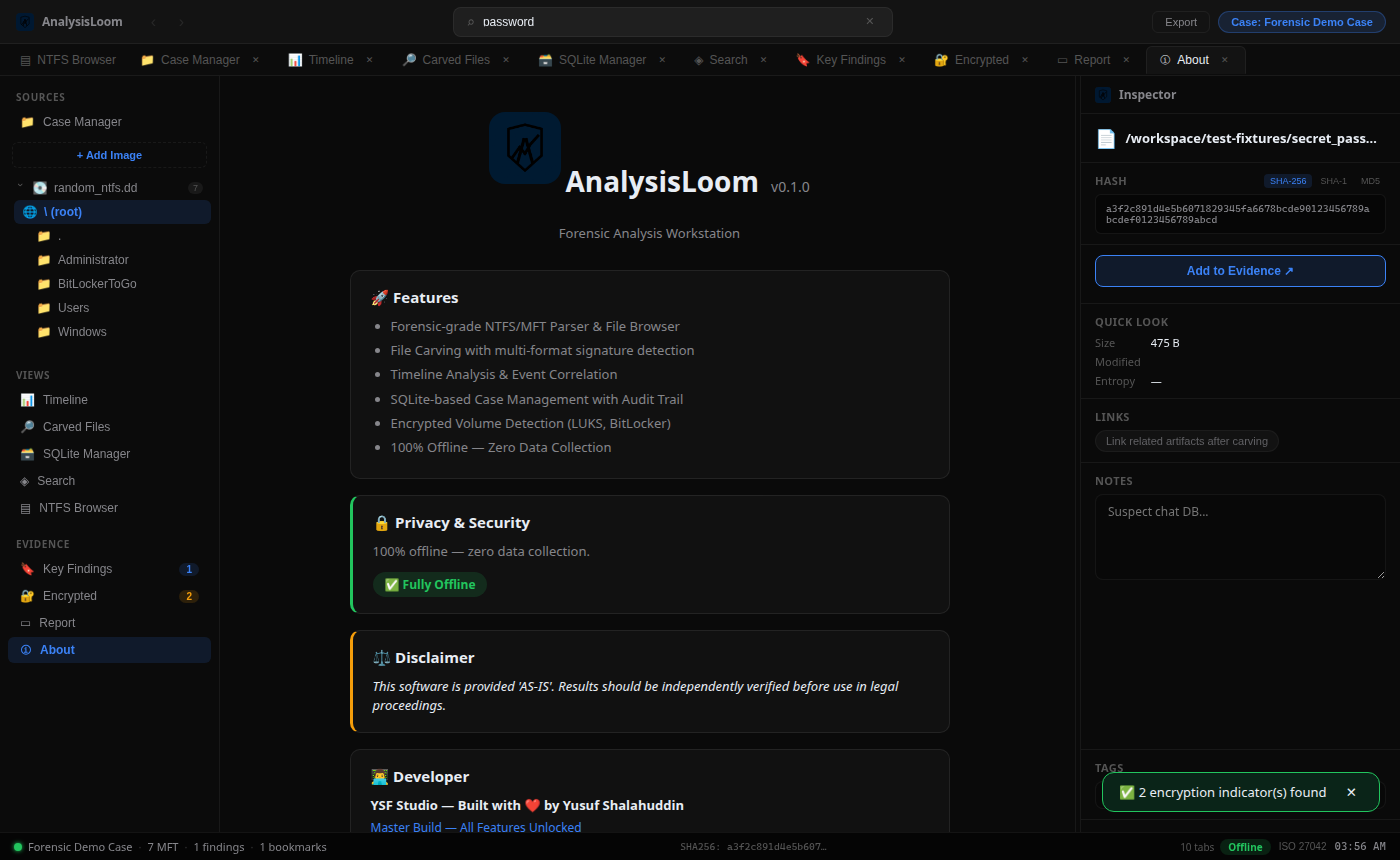
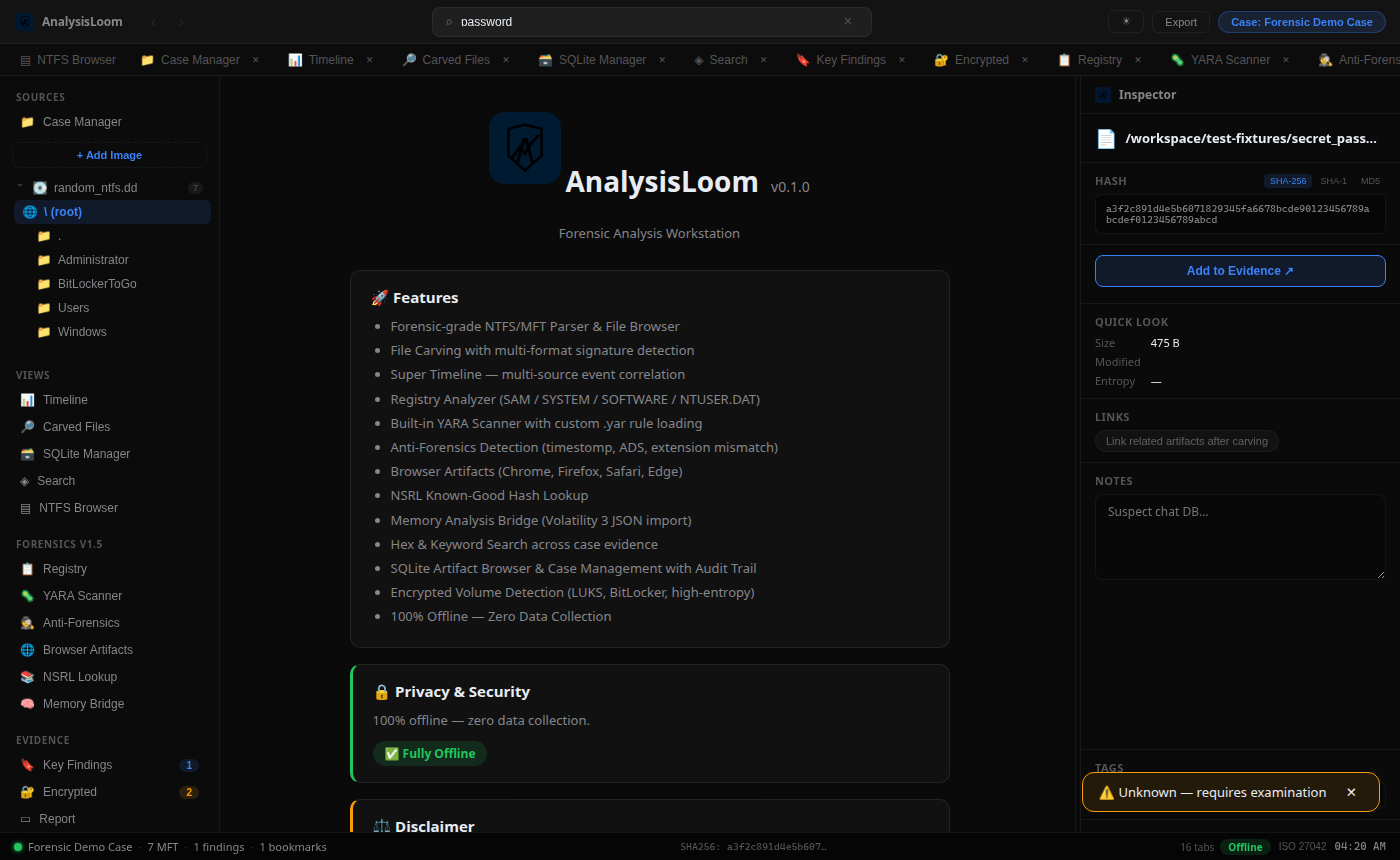
polish: update about_info features list and regenerate README screenshots
- Expand about_info() and DEMO_ABOUT with V1.5 features (Registry, YARA,
  Anti-Forensics, Browser, NSRL, Memory, Super Timeline, Hex Search)
- Add mock handlers and demo data for new forensic tabs in screenshot build
- Capture 6 new screenshots (registry, yara-scanner, anti-forensics,
  browser-artifacts, nsrl-lookup, memory-bridge) and refresh existing ones
- Document new tabs in README Screenshots section

diff --git a/packages/analysisloom/src/lib/demo/mockData.js b/packages/analysisloom/src/lib/demo/mockData.js
@@ -81,17 +81,84 @@ export const DEMO_AUDIT = [
   { timestamp: "2026-06-06 10:32:00", action: "KEYWORD_SEARCH", detail: "password" },
 ];
 
+export const DEMO_REGISTRY = {
+  hiveType: "SYSTEM",
+  keysScanned: 5,
+  findings: [
+    { hive: "SYSTEM", keyPath: "ControlSet001\\Enum\\USBSTOR", valueName: "(subkey)", valueData: "Disk&Ven_SanDisk", category: "usb", forensicRelevance: "USB History" },
+    { hive: "SYSTEM", keyPath: "ControlSet001\\Enum\\USBSTOR\\4&2a1b3c4d", valueName: "FriendlyName", valueData: "SanDisk Ultra USB 3.0", category: "usb", forensicRelevance: "USB History" },
+    { hive: "SOFTWARE", keyPath: "Microsoft\\Windows\\CurrentVersion\\Explorer\\UserAssist", valueName: "(subkey)", valueData: "{CEBFF5C0}", category: "userassist", forensicRelevance: "UserAssist / Program Execution" },
+    { hive: "NTUSER", keyPath: "Software\\Microsoft\\Windows\\CurrentVersion\\Explorer\\RecentDocs", valueName: "(subkey)", valueData: ".txt", category: "mru", forensicRelevance: "Recent Documents (MRU)" },
+  ],
+};
+
+export const DEMO_YARA = [
+  { ruleName: "Suspicious_PowerShell", filePath: "/workspace/test-fixtures/secret_password_log.txt", offset: 128, matchedString: "powershell", severity: "high" },
+  { ruleName: "Ransomware_Note", filePath: "/workspace/test-fixtures/secret_password_log.txt", offset: 0, matchedString: "ransom", severity: "critical" },
+];
+
+export const DEMO_ANTIFORENSICS = [
+  { detectionType: "Timestomp Suspect", filePath: "/workspace/test-fixtures/random_ntfs.dd::secret_password.txt", severity: "high", details: "$SI created differs from $FN — possible timestomp", recordNumber: 4 },
+  { detectionType: "NTFS Alternate Data Stream", filePath: "/workspace/test-fixtures/random_ntfs.dd::zone.identifier:Zone.Identifier", severity: "high", details: "Named data stream 'Zone.Identifier'", recordNumber: 4 },
+];
+
+export const DEMO_BROWSER = [
+  {
+    browser: "Chrome",
+    dbPath: "/workspace/test-fixtures/messages.db",
+    artifacts: [
+      { browser: "Chrome", artifactType: "history", url: "https://mail.google.com", title: "Gmail", visitCount: 42, lastVisit: "2026-06-06 09:15:00 UTC", sourcePath: "" },
+      { browser: "Chrome", artifactType: "download", url: "https://cdn.example.com/tool.exe", title: "/Users/Downloads/tool.exe", visitCount: 1, lastVisit: "2026-06-05 14:22:00 UTC", sourcePath: "" },
+    ],
+  },
+];
+
+export const DEMO_NSRL = {
+  sha256: DEMO_HASHES.sha256,
+  knownGood: false,
+  fileName: null,
+  product: null,
+};
+
+export const DEMO_MEMORY = {
+  plugin: "windows.pslist.PsList",
+  processes: [
+    { pid: 4, name: "System", ppid: 0, cmdline: "", createTime: "2026-06-01 08:00:00" },
+    { pid: 512, name: "explorer.exe", ppid: 480, cmdline: "C:\\Windows\\explorer.exe", createTime: "2026-06-01 08:01:12" },
+    { pid: 2048, name: "powershell.exe", ppid: 512, cmdline: "powershell -enc SQBFAFgA", createTime: "2026-06-01 09:44:33" },
+  ],
+  networks: [
+    { pid: 2048, protocol: "TCP", localAddr: "192.168.1.10:49152", foreignAddr: "185.220.101.45:443", state: "ESTABLISHED" },
+  ],
+  rawEntries: 4,
+  sourceFile: "/workspace/test-fixtures/volatility.json",
+};
+
+export const DEMO_SUPER_TIMELINE = [
+  { timestamp: "2026-06-06 10:31:12", source: "NTFS", category: "filesystem", filePath: DEMO_IMAGE, eventType: "mft_loaded_7", severity: "info" },
+  { timestamp: "2026-06-06 10:32:00", source: "Registry", category: "registry", filePath: "/evidence/SYSTEM", eventType: "registry_4", severity: "info" },
+  { timestamp: "2026-06-06 10:32:45", source: "YARA", category: "malware", filePath: "/workspace/test-fixtures/secret_password_log.txt", eventType: "yara_2", severity: "high" },
+  { timestamp: "2026-06-06 10:33:20", source: "Browser", category: "browser", filePath: "/evidence/Chrome/History", eventType: "browser_2", severity: "info" },
+];
+
 export const DEMO_ABOUT = {
   appName: "AnalysisLoom",
   version: "0.1.0",
   developer: "YSF Studio — Built with ❤ by Yusuf Shalahuddin",
-  build: "Master Build — All Features Unlocked",
+  build: "V1.5 Master Build — All Features Unlocked",
   features: [
     "Forensic-grade NTFS/MFT Parser & File Browser",
     "File Carving with multi-format signature detection",
-    "Timeline Analysis & Event Correlation",
-    "SQLite-based Case Management with Audit Trail",
-    "Encrypted Volume Detection (LUKS, BitLocker)",
+    "Super Timeline — multi-source event correlation",
+    "Registry Analyzer (SAM / SYSTEM / SOFTWARE / NTUSER.DAT)",
+    "Built-in YARA Scanner with custom .yar rule loading",
+    "Anti-Forensics Detection (timestomp, ADS, extension mismatch)",
+    "Browser Artifacts (Chrome, Firefox, Safari, Edge)",
+    "NSRL Known-Good Hash Lookup",
+    "Memory Analysis Bridge (Volatility 3 JSON import)",
+    "Hex & Keyword Search across case evidence",
+    "SQLite Artifact Browser & Case Management with Audit Trail",
+    "Encrypted Volume Detection (LUKS, BitLocker, high-entropy)",
     "100% Offline — Zero Data Collection",
   ],
   disclaimer: "This software is provided 'AS-IS'. Results should be independently verified before use in legal proceedings.",

diff --git a/packages/analysisloom/src/lib/demo/tauriMock.js b/packages/analysisloom/src/lib/demo/tauriMock.js
@@ -13,6 +13,13 @@ import {
   DEMO_AUDIT,
   DEMO_ABOUT,
   DEMO_IMAGE,
+  DEMO_REGISTRY,
+  DEMO_YARA,
+  DEMO_ANTIFORENSICS,
+  DEMO_BROWSER,
+  DEMO_NSRL,
+  DEMO_MEMORY,
+  DEMO_SUPER_TIMELINE,
 } from "./mockData.js";
 
 let carvingDone = false;
@@ -63,7 +70,39 @@ export async function invoke(cmd, args = {}) {
     case "get_timeline":
       return DEMO_TIMELINE;
     case "keyword_search":
+    case "unified_search":
+    case "hex_search":
       return DEMO_SEARCH;
+    case "get_super_timeline":
+      return DEMO_SUPER_TIMELINE;
+    case "analyze_registry_hive":
+      return DEMO_REGISTRY;
+    case "scan_registry_directory":
+      return [DEMO_REGISTRY];
+    case "yara_scan_paths":
+      return DEMO_YARA;
+    case "yara_builtin_rule_count":
+      return 9;
+    case "analyze_antiforensics_mft":
+    case "analyze_antiforensics_files":
+      return DEMO_ANTIFORENSICS;
+    case "scan_browser_artifacts":
+      return DEMO_BROWSER;
+    case "analyze_browser_db":
+      return DEMO_BROWSER[0];
+    case "nsrl_lookup_file":
+    case "nsrl_lookup_hash":
+      return DEMO_NSRL;
+    case "nsrl_import":
+      return 1500;
+    case "nsrl_seed_builtin":
+      return 3;
+    case "nsrl_stats":
+      return { hashCount: 1503 };
+    case "parse_volatility_json":
+      return DEMO_MEMORY;
+    case "recover_deleted_carve":
+      return { filesFound: DEMO_CARVED.length, files: DEMO_CARVED, bytesScanned: 262144 };
     case "add_bookmark":
       return 1;
     case "list_bookmarks":

diff --git a/packages/analysisloom/src-tauri/src/commands.rs b/packages/analysisloom/src-tauri/src/commands.rs
@@ -956,13 +956,20 @@ pub fn about_info() -> serde_json::Value {
         "appName": "AnalysisLoom",
         "version": "0.1.0",
         "developer": "YSF Studio — Built with ❤ by Yusuf Shalahuddin",
-        "build": "Master Build — All Features Unlocked",
+        "build": "V1.5 Master Build — All Features Unlocked",
         "features": [
             "Forensic-grade NTFS/MFT Parser & File Browser",
             "File Carving with multi-format signature detection",
-            "Timeline Analysis & Event Correlation",
-            "Multi-format file preview (text, image, hex, archive)",
-            "SQLite-based Case Management with Audit Trail",
+            "Super Timeline — multi-source event correlation",
+            "Registry Analyzer (SAM / SYSTEM / SOFTWARE / NTUSER.DAT)",
+            "Built-in YARA Scanner with custom .yar rule loading",
+            "Anti-Forensics Detection (timestomp, ADS, extension mismatch)",
+            "Browser Artifacts (Chrome, Firefox, Safari, Edge)",
+            "NSRL Known-Good Hash Lookup",
+            "Memory Analysis Bridge (Volatility 3 JSON import)",
+            "Hex & Keyword Search across case evidence",
+            "SQLite Artifact Browser & Case Management with Audit Trail",
+            "Encrypted Volume Detection (LUKS, BitLocker, high-entropy)",
             "Chain of Custody tracking with SHA-256 verification",
             "100% Offline — Zero Data Collection. All processing runs locally."
         ],

diff --git a/README.md b/README.md
@@ -126,6 +126,60 @@ Scan disk images for LUKS headers, BitLocker markers, and high-entropy encrypted
 
 **How to use:** Load a disk image → open **Encrypted** → **Scan for Encryption**.
 
+### Registry Analyzer
+Parse Windows registry hives (SAM, SYSTEM, SOFTWARE, NTUSER.DAT) and surface USB history, UserAssist, MRU, and other forensic keys.
+
+| |
+|:--:|
+| ![Registry Analyzer](screenshots/registry.png) |
+
+**How to use:** Open **Registry** → point to a hive file or directory → **Analyze Hive**.
+
+### YARA Scanner
+Built-in YARA engine with default rules plus custom `.yar` loading. Scan evidence paths and flag matches by severity.
+
+| |
+|:--:|
+| ![YARA Scanner](screenshots/yara-scanner.png) |
+
+**How to use:** Open **YARA Scanner** → add paths or select from case evidence → **Scan Evidence**.
+
+### Anti-Forensics Detection
+Detect timestomping, NTFS alternate data streams, and extension mismatches from MFT records or file paths.
+
+| |
+|:--:|
+| ![Anti-Forensics](screenshots/anti-forensics.png) |
+
+**How to use:** Load a disk image → open **Anti-Forensics** → **Scan MFT Image**.
+
+### Browser Artifacts
+Extract browsing history, downloads, and related SQLite artifacts from Chrome, Firefox, Safari, and Edge profiles.
+
+| |
+|:--:|
+| ![Browser Artifacts](screenshots/browser-artifacts.png) |
+
+**How to use:** Open **Browser Artifacts** → **Scan Browsers** or point to a specific `History` / `places.sqlite` database.
+
+### NSRL Lookup
+Check file hashes against the NIST NSRL known-good database. Import custom NSRL sets or use the built-in seed.
+
+| |
+|:--:|
+| ![NSRL Lookup](screenshots/nsrl-lookup.png) |
+
+**How to use:** Select a file in the NTFS browser → open **NSRL Lookup** → **Lookup Selected File**.
+
+### Memory Bridge
+Import Volatility 3 JSON output and browse processes, network connections, and plugin metadata without leaving the case.
+
+| |
+|:--:|
+| ![Memory Bridge](screenshots/memory-bridge.png) |
+
+**How to use:** Open **Memory Bridge** → paste or browse to a Volatility JSON export → **Parse JSON**.
+
 ### Report
 Generate HTML or PDF case reports including evidence list, findings, and audit trail.
 
